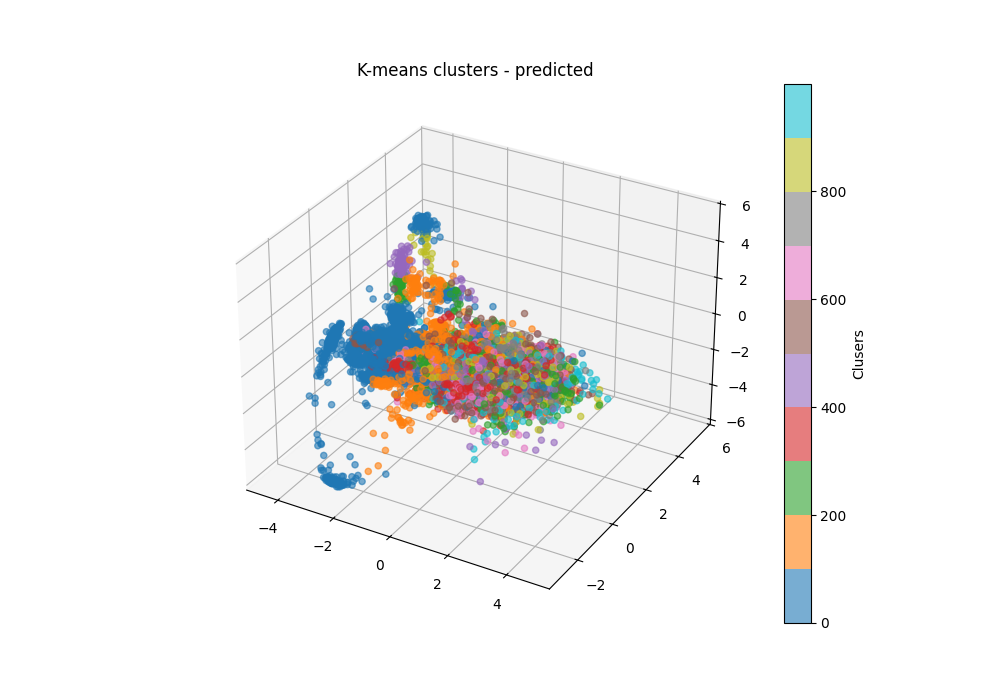
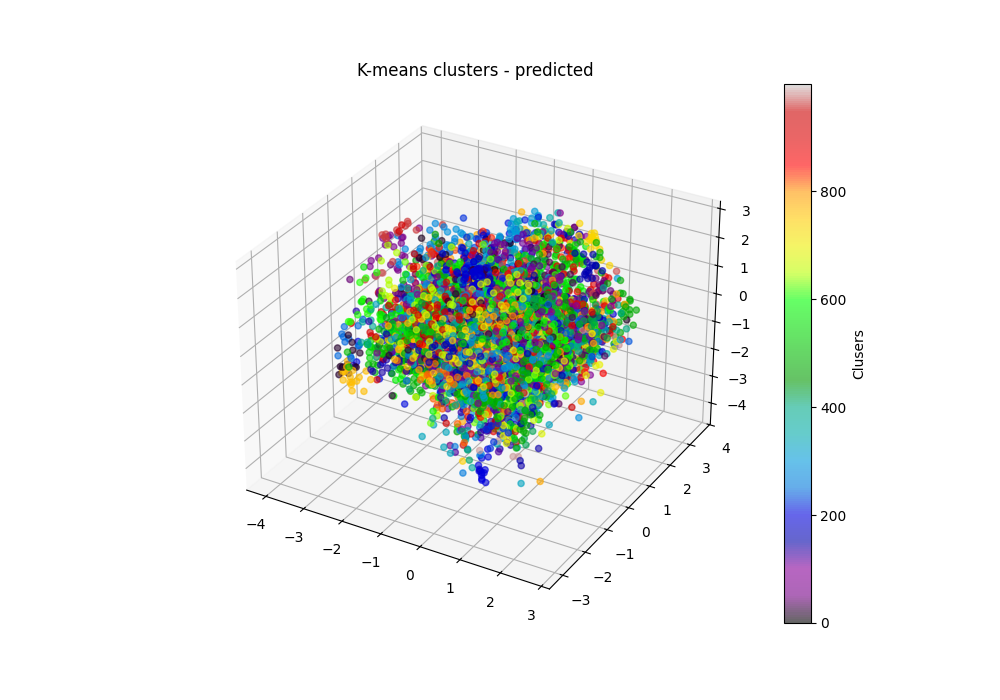
fix wrong path to test dataset

diff --git a/src/architectures/baseline/test.py b/src/architectures/baseline/test.py
@@ -14,9 +14,11 @@ import random
 
 test_dataset = HWDataset(DATA_MDB_PATH, TEST_CSV_PATH,transform=TRANSFORM)
 
-sample_size = int(0.05 * len(test_dataset))
+sample_size = int(0.5 * len(test_dataset))
 sampled_indices = random.sample(range(len(test_dataset)), sample_size)
 test_dataset = data.Subset(test_dataset, sampled_indices)
+
+print(len(test_dataset))
 
 test_loader = data.DataLoader(test_dataset, batch_size=BATCH_SIZE, shuffle=False)
 
@@ -50,14 +52,14 @@ embeddings_3d = pca.fit_transform(embeddings)
 
 fig = plt.figure(figsize=(10, 7))
 ax = fig.add_subplot(111, projection='3d')
-scatter = ax.scatter(embeddings_3d[:, 0], embeddings_3d[:, 1], embeddings_3d[:, 2], c=true_labels, cmap='tab10', alpha=0.6)
+scatter = ax.scatter(embeddings_3d[:, 0], embeddings_3d[:, 1], embeddings_3d[:, 2], c=true_labels, cmap='nipy_spectral', alpha=0.6)
 plt.colorbar(scatter, ax=ax, label='Ground truth')
 plt.title("K-means clusters - ground truth")
 plt.savefig("embedding_clusters_3d_ground_truth.png")
 
 fig = plt.figure(figsize=(10, 7))
 ax = fig.add_subplot(111, projection='3d')
-scatter = ax.scatter(embeddings_3d[:, 0], embeddings_3d[:, 1], embeddings_3d[:, 2], c=predicted_clusters, cmap='tab10', alpha=0.6)
+scatter = ax.scatter(embeddings_3d[:, 0], embeddings_3d[:, 1], embeddings_3d[:, 2], c=predicted_clusters, cmap='nipy_spectral', alpha=0.6)
 plt.colorbar(scatter, ax=ax, label='Clusers')
 plt.title("K-means clusters - predicted")
 plt.savefig("embedding_clusters_3d_predicted.png")

diff --git a/src/architectures/baseline/globals.py b/src/architectures/baseline/globals.py
@@ -5,7 +5,7 @@ import os
 DATASET_PATH = "./dataset/"
 DATA_MDB_PATH = os.path.join(DATASET_PATH, "lmdb_processed/")
 TRAIN_CSV_PATH = os.path.join(DATASET_PATH, "train_ids.csv")
-TEST_CSV_PATH = os.path.join(DATASET_PATH, "train_ids.csv")
+TEST_CSV_PATH = os.path.join(DATASET_PATH, "test_ids.csv")
 MODEL_PATH = "./model-baseline-best.pth"
 
 BATCH_SIZE = 512

diff --git a/src/architectures/baseline/train.py b/src/architectures/baseline/train.py
@@ -101,6 +101,5 @@ for epoch in range(EPOCHS):
     ax2.set_ylabel("Accuracy (%)")
     plt.legend(loc="upper left")
     ax2.legend(loc="upper right")
-    plot_filename = "training_results.png"
-    plt.savefig(plot_filename)
+    plt.savefig("./training_results.png")
     
